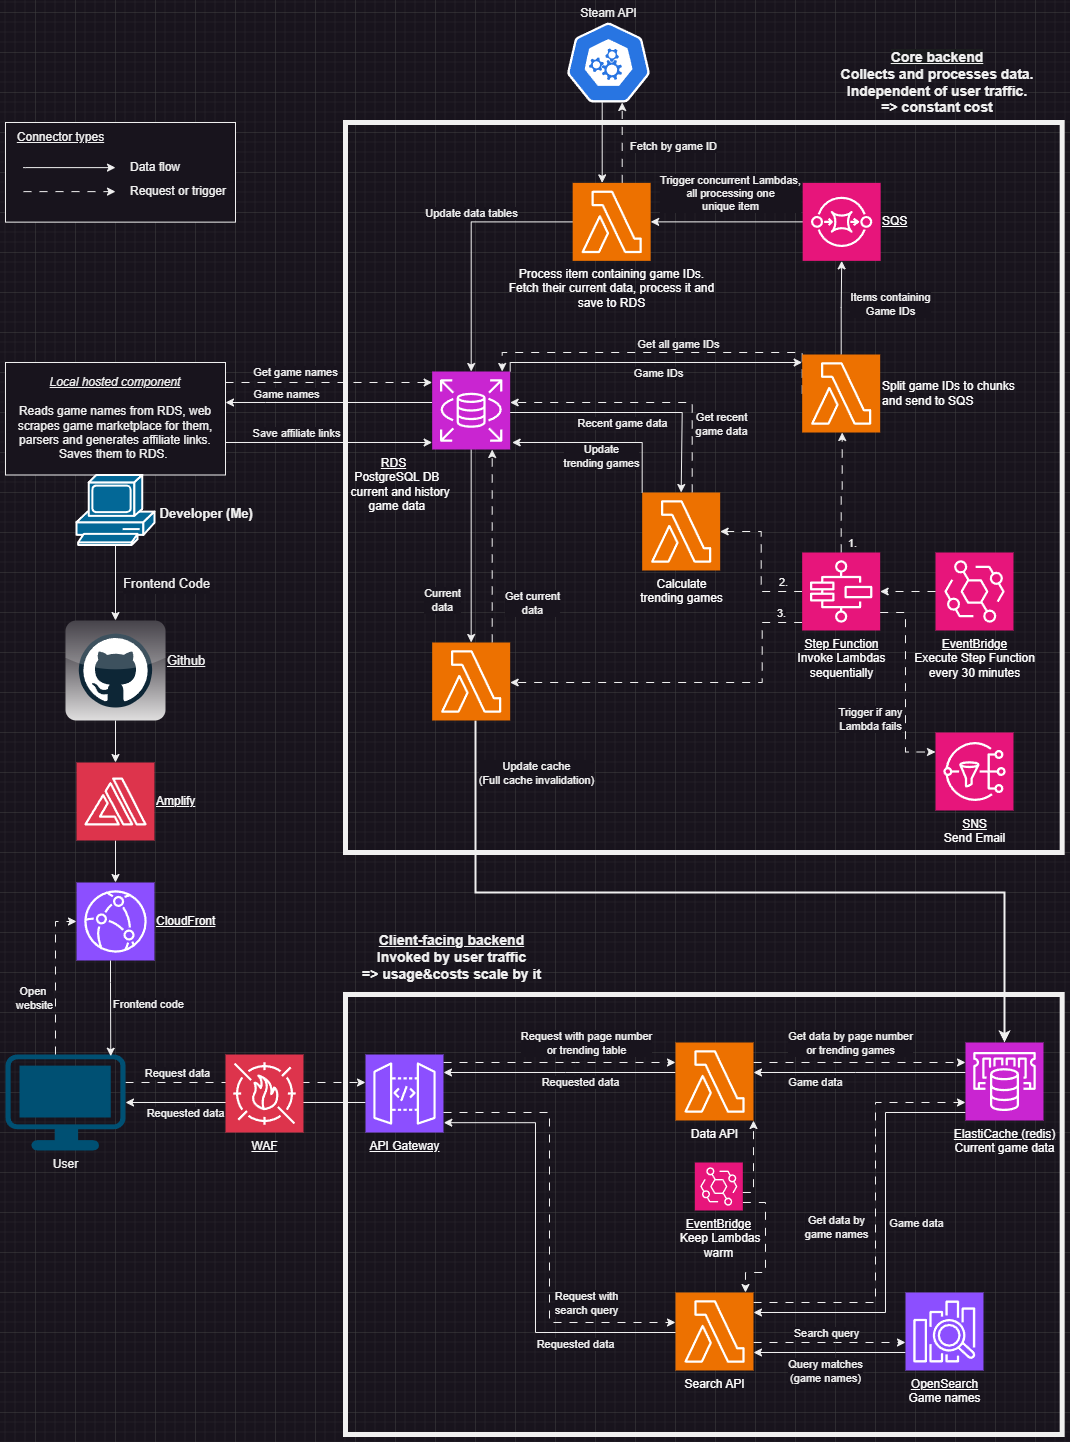
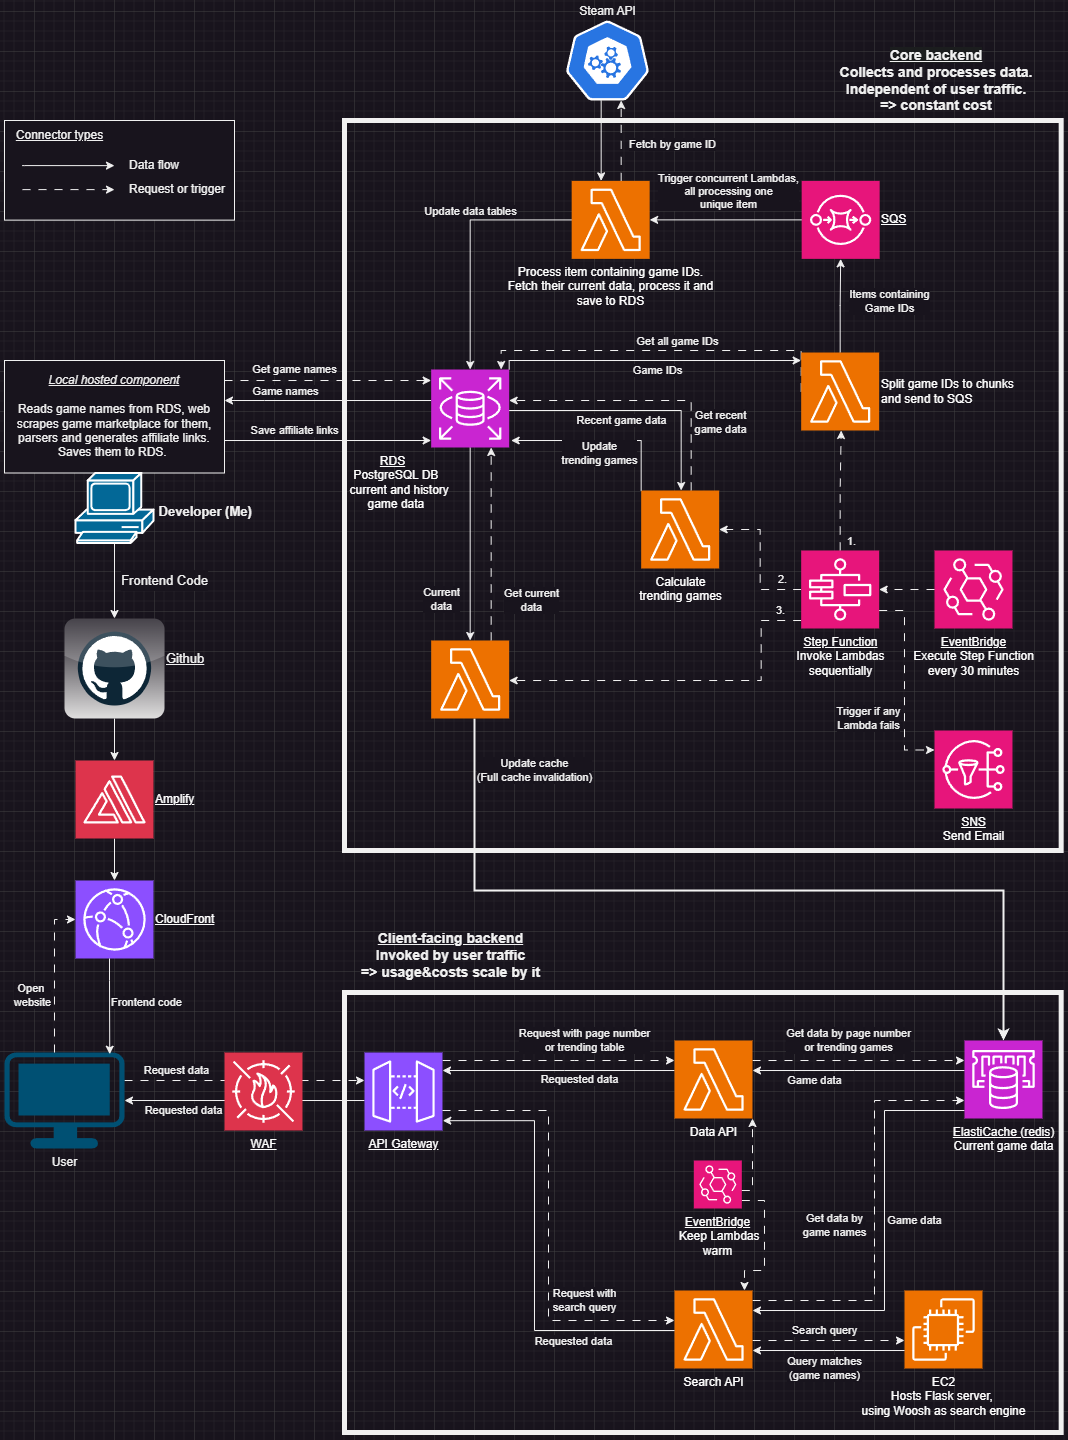
update documentation

diff --git a/README.md b/README.md
@@ -83,4 +83,5 @@ OpenSearch can both be scaled vertically with more powerful nodes and horizontal
    games that don't have e.g. Postgres table yet.
 2. Admin panel that allows signing in with admin credentials to read and
    change data in the DB, and force start an update cycle anytime.
-3. Replace OpenSearch with something cheaper.
+3. ~~Replace OpenSearch with something cheaper.~~
+   - EC2 running Flask Server and Woosh as search engine replaced OpenSearch
